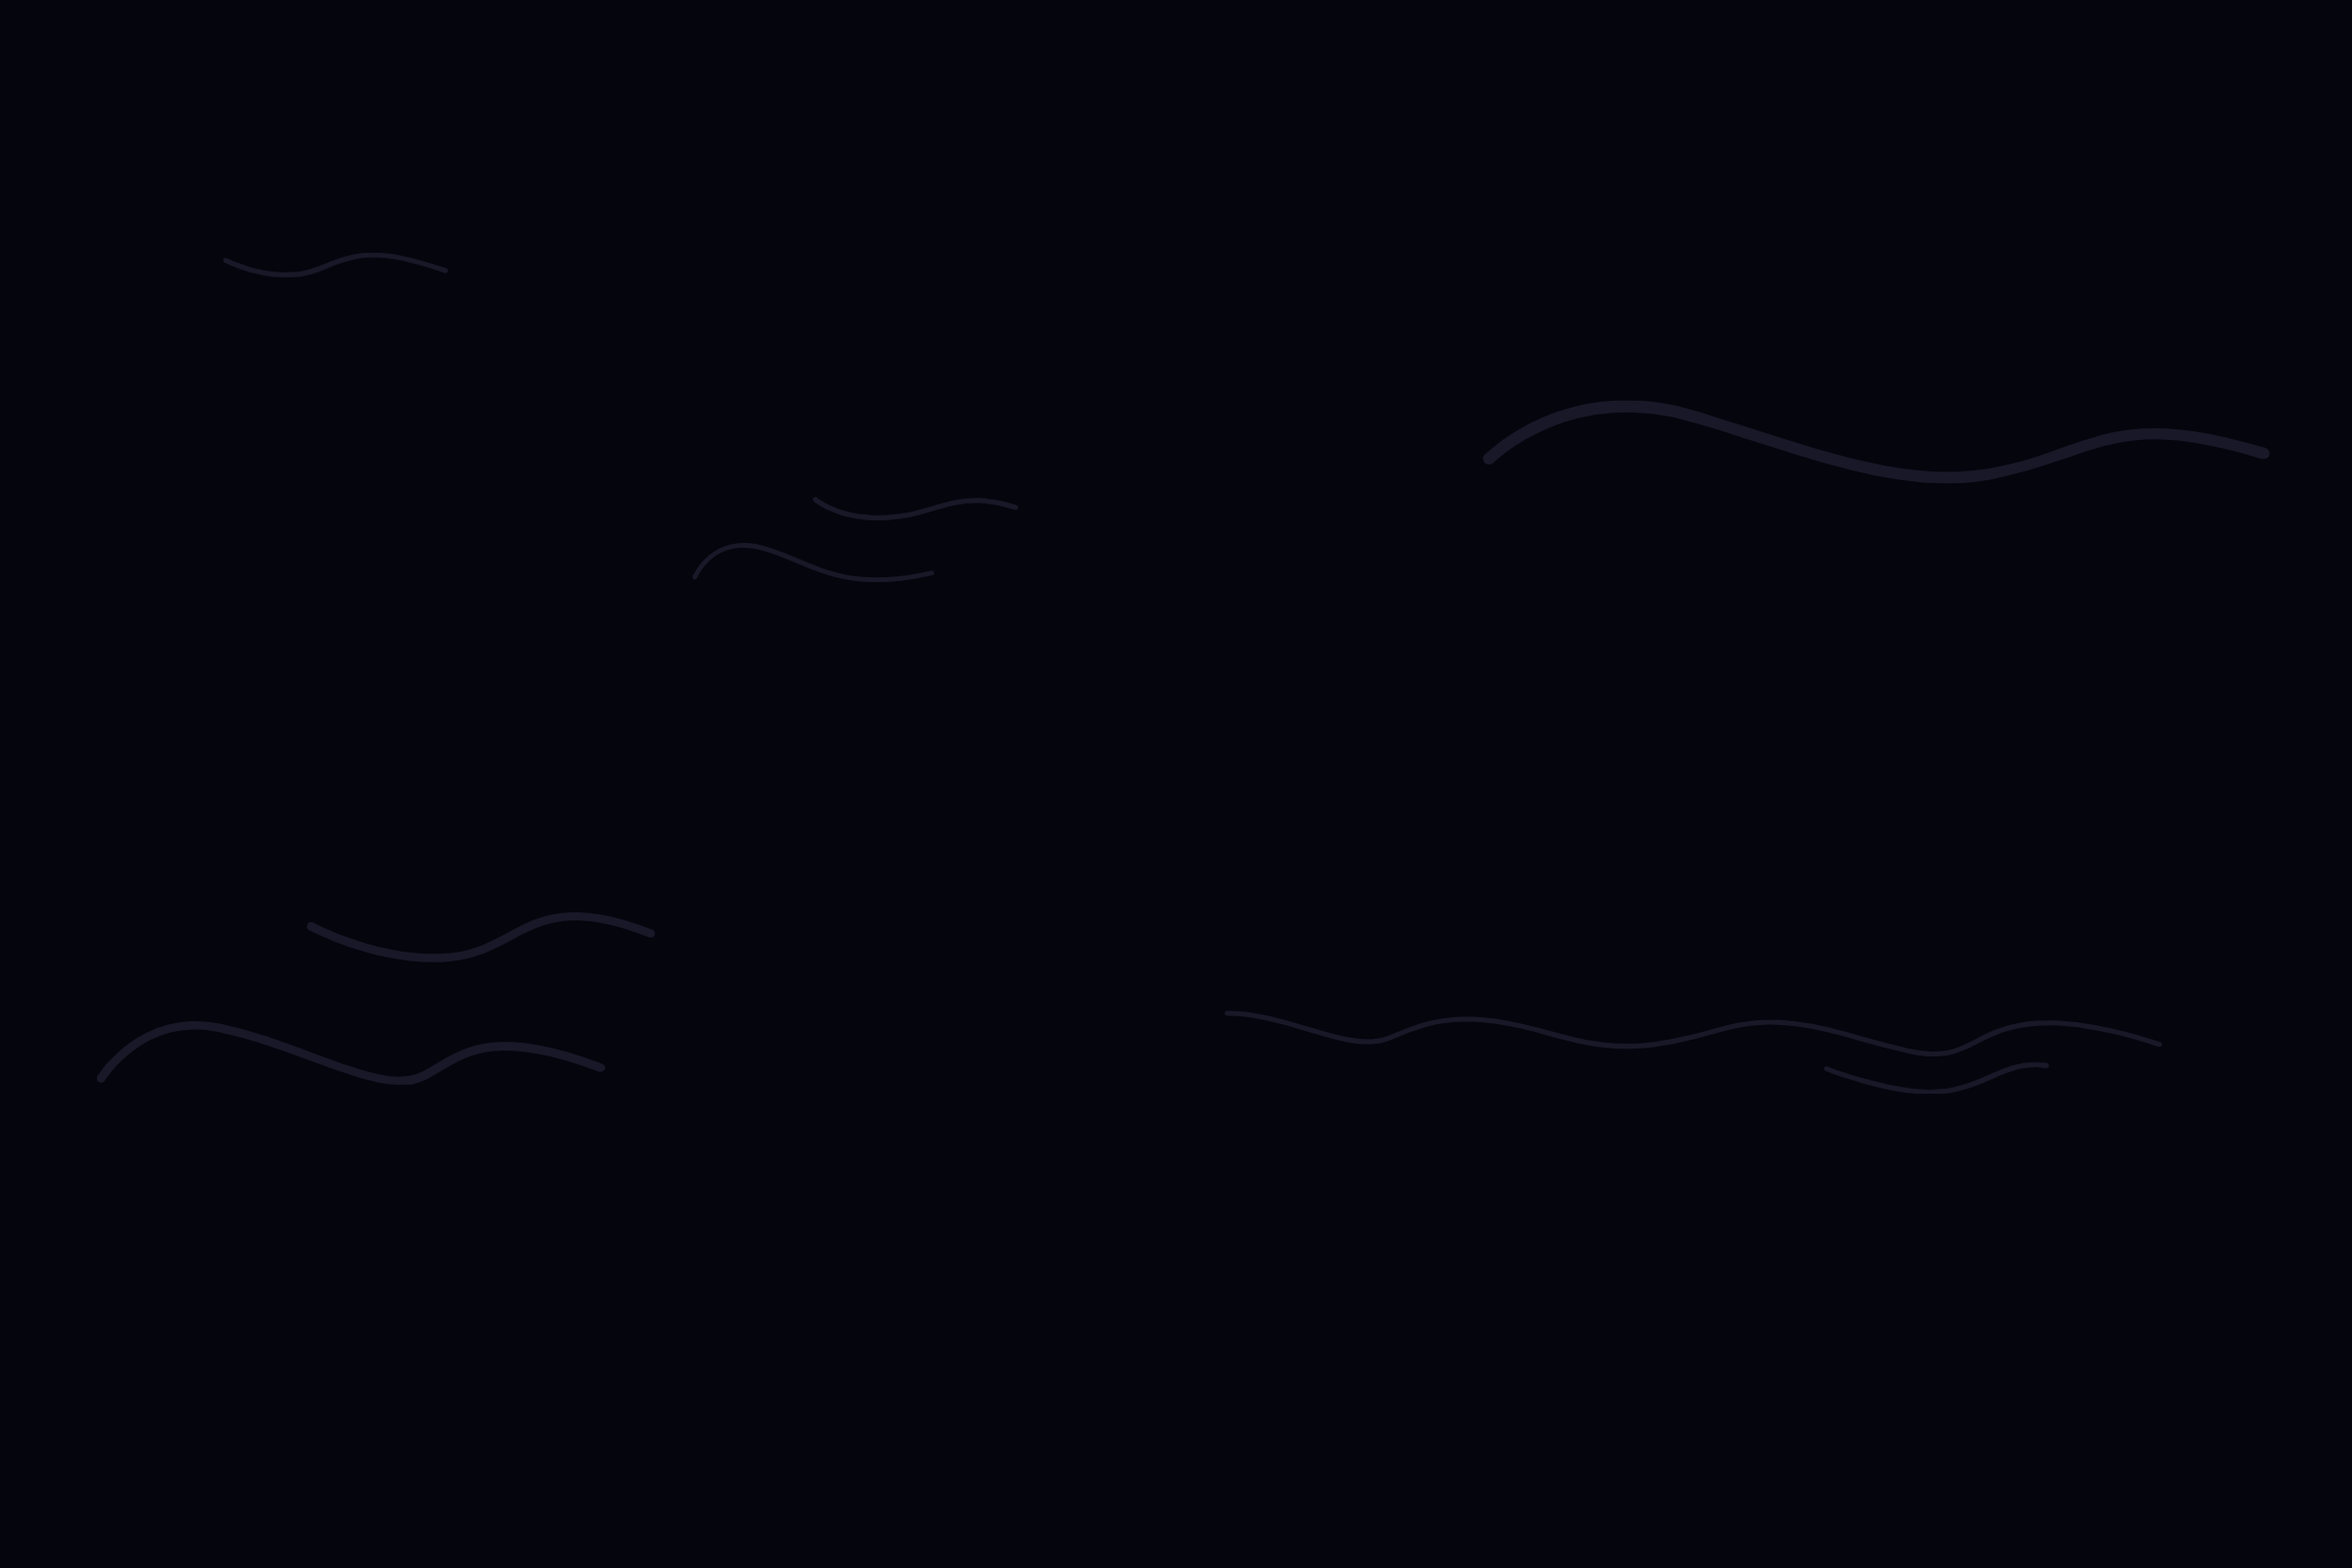
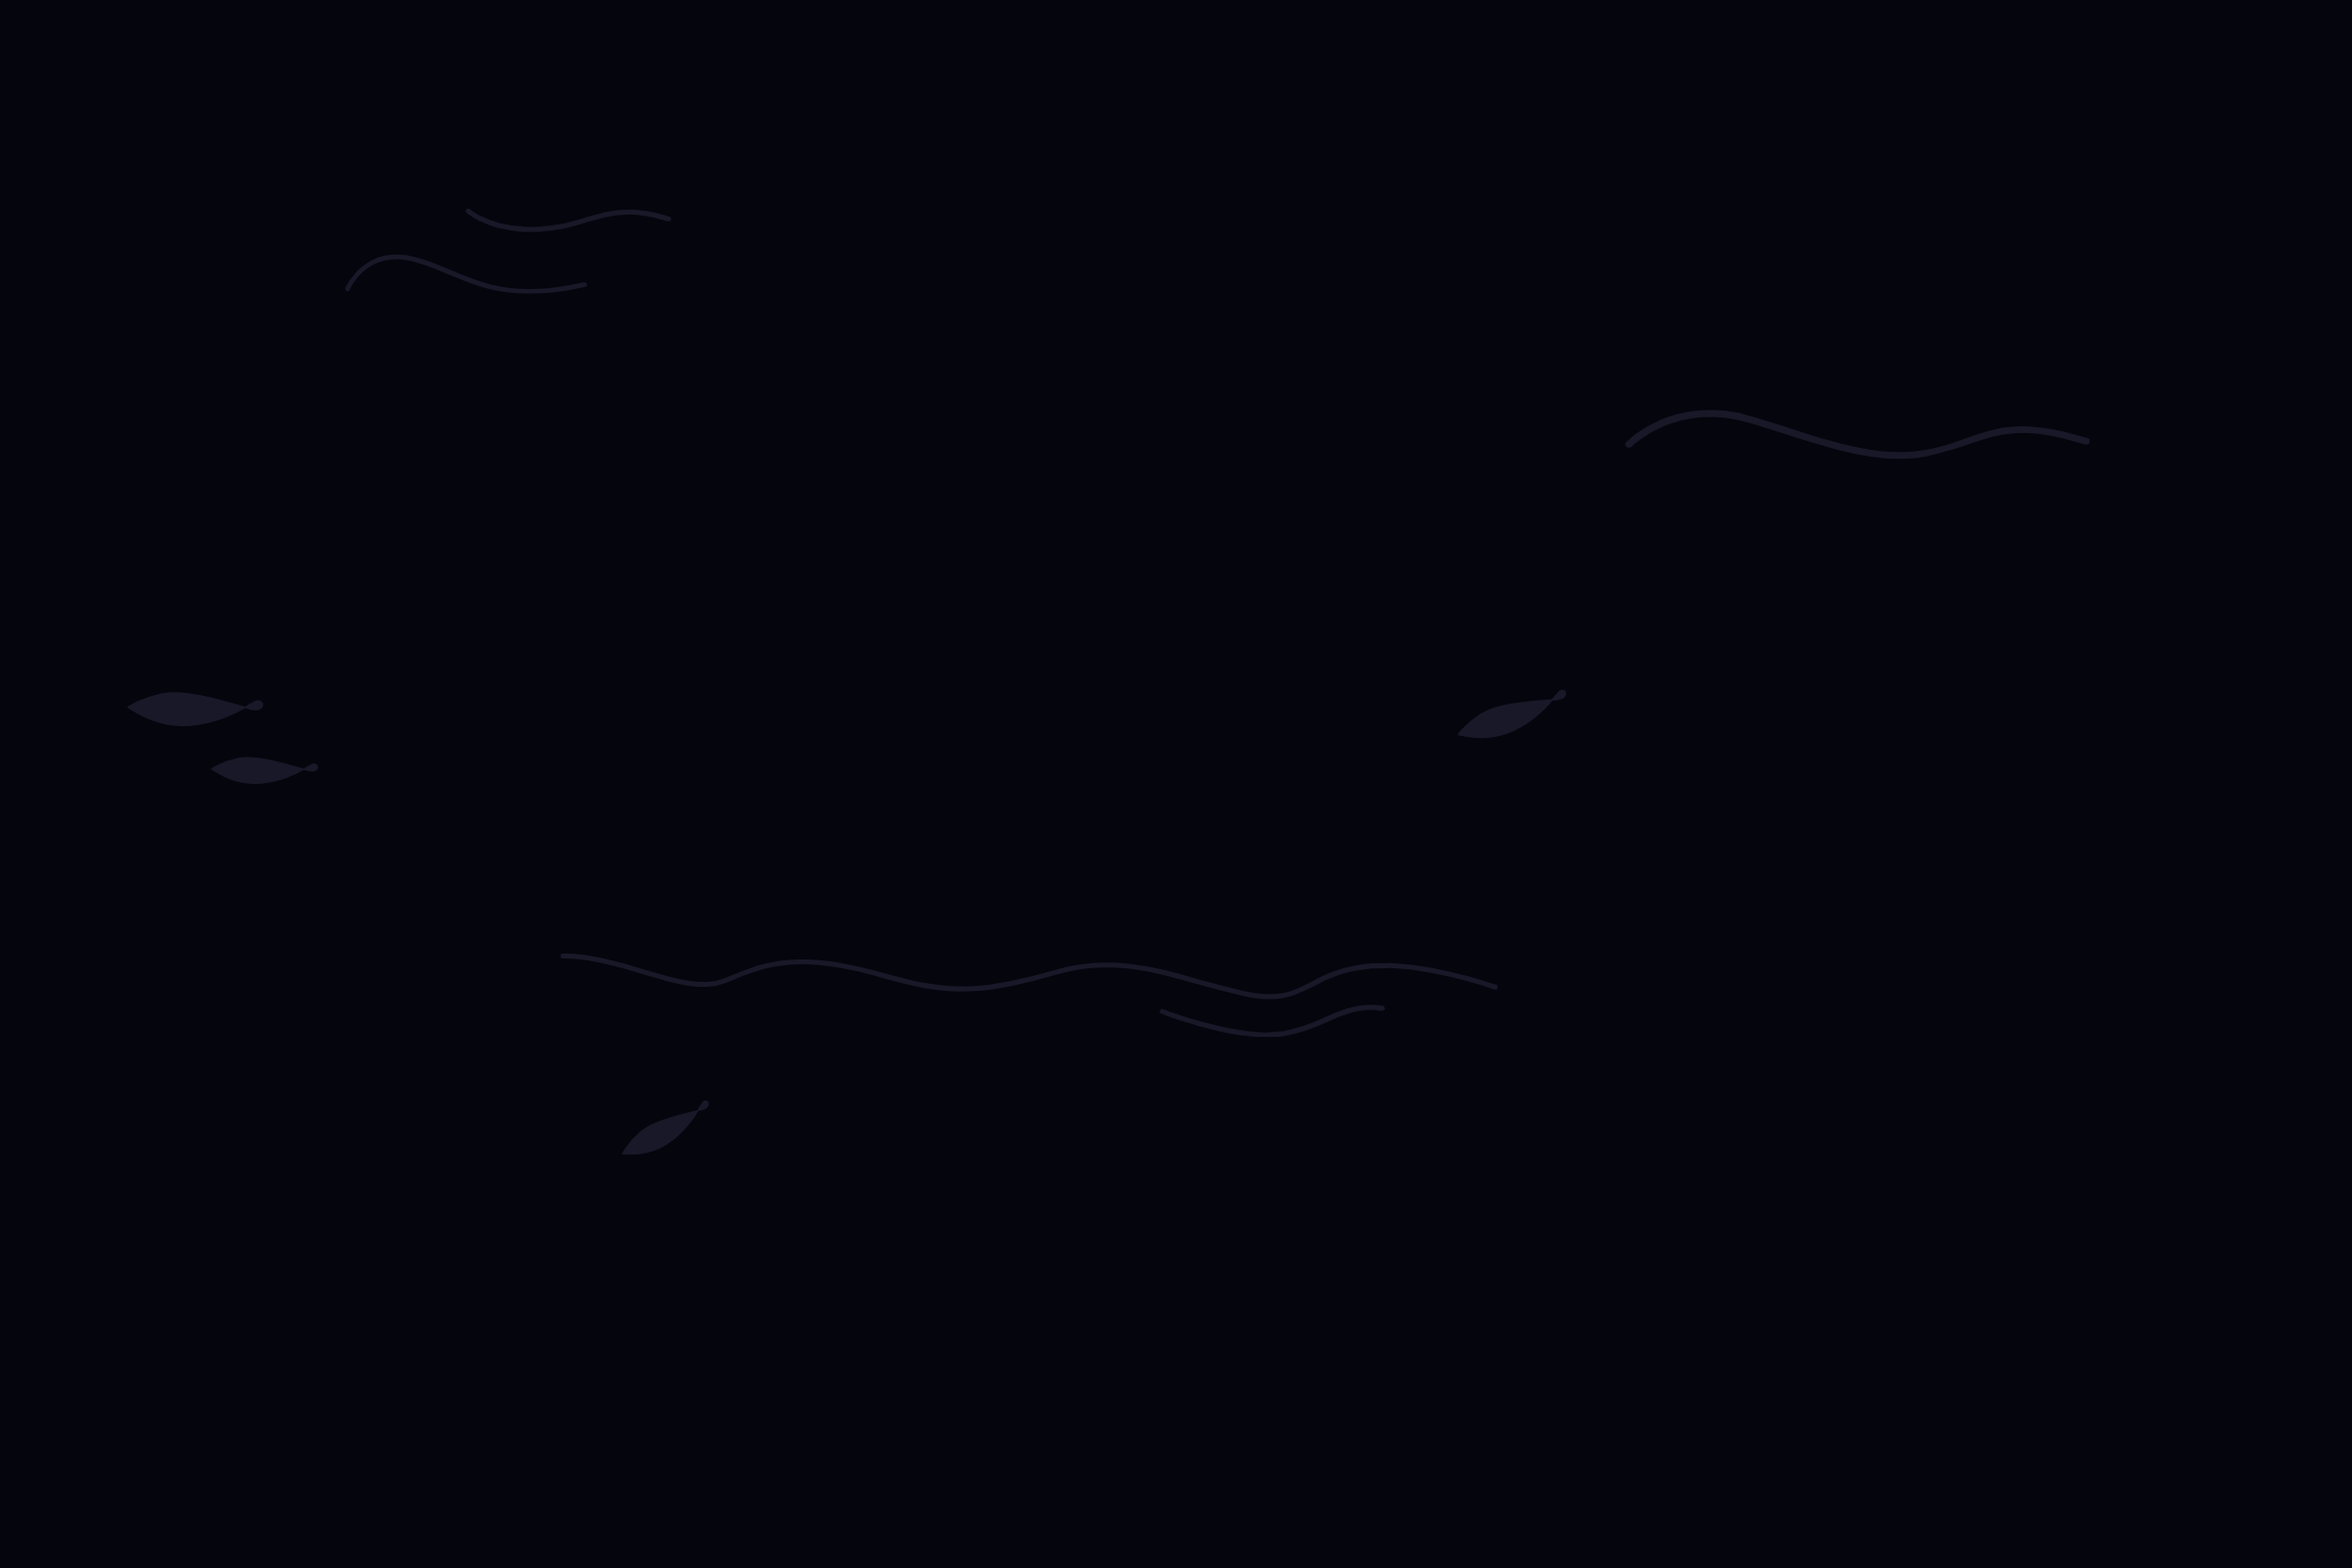
background

diff --git a/src/app/portfolio/portfolio.component.html b/src/app/portfolio/portfolio.component.html
@@ -1,5 +1,4 @@
-<section id="1" class="background" style="overflow: hidden">
-             
+<section id="1" class="background1" style="overflow: hidden">   
     <div class="floating" style="height: 100%; display: flex; justify-content: center; align-items: center; flex-direction: column;">
         <span class="text-center ft-bold" style="font-size: 3rem; color: #eeedff; margin-top: -15px;">HI!</span>
         <span class="text-center ft-bold" style="font-size: 3rem; color: #eeedff; margin-top: -15px;">I'M IRINA</span>
@@ -11,11 +10,9 @@
             <img src="https://img.icons8.com/ios-filled/24/ffffff/down.png"/>
         </a>
     </div>
-    
-
 </section>
 
-<section id="2" class="background-color" style="height: 100%">
+<section id="2" class="background2" style="height: 100%">
     <div class="mx-5" style="height: 100%; width: auto; display: flex; align-items: center; justify-content: center;">  
         <div style="text-align: center;">
             <div class="floating">

diff --git a/src/app/app.component.scss b/src/app/app.component.scss
@@ -1,4 +1,12 @@
-.background {
+.background1 {
+    background-image: url('./../assets/portfolio_background1.png');
+    background-size: cover;
+    width: 100%;
+    height: 100%;
+    overflow: auto;
+}
+
+.background2 {
     background-image: url('./../assets/portfolio_background2.png');
     background-size: cover;
     width: 100%;
